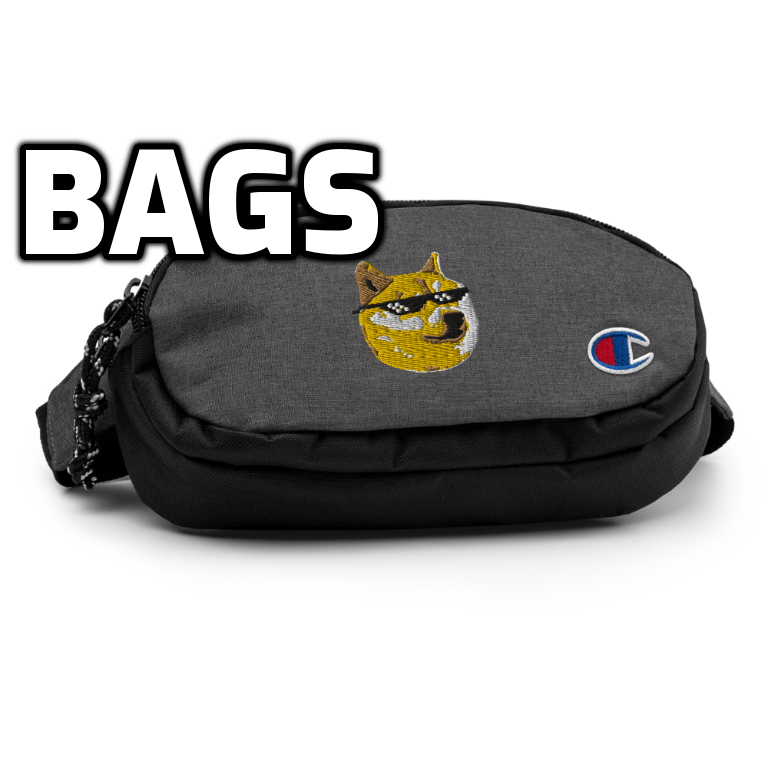
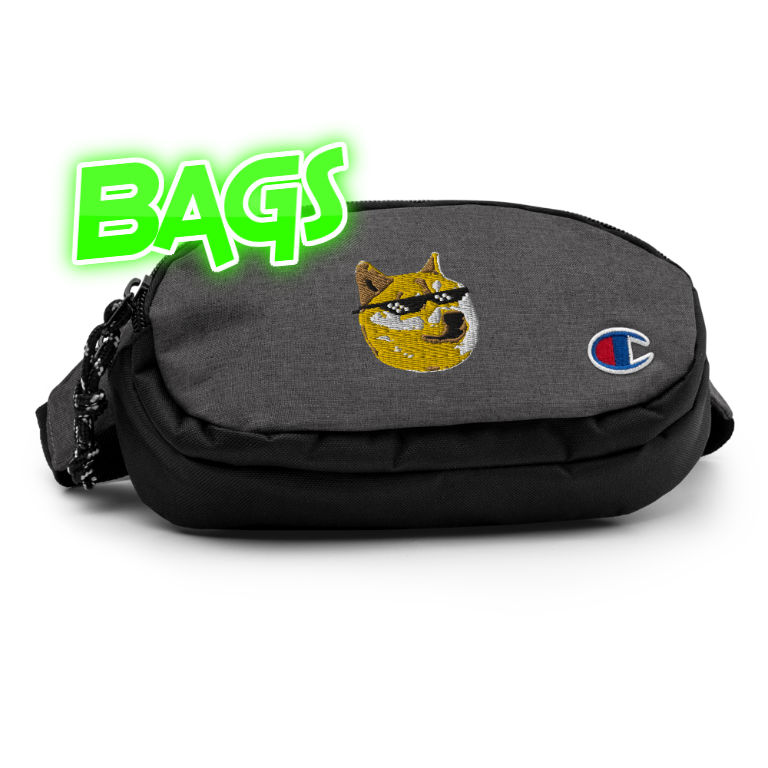
background styling and other minor styling edits

Changed region(s): [[0.0, 0.1562, 0.5312, 0.375]]

diff --git a/client/src/components/Home.js b/client/src/components/Home.js
@@ -9,9 +9,10 @@ import { Route, Switch } from "react-router-dom";
 import Checkout from './Checkout/Checkout';
 import Ticker from './Ticker/Ticker';
 import ImageCarousel from './Carousel/ImageCarousel';
-import { Grid, Container } from '@material-ui/core';
+import { Grid, Container, Typography } from '@material-ui/core';
 import Chat from './Chat/Chat';
 import BottomBanner from './Banner/BottomBanner';
+import MediaBanner from './Banner/MediaBanner';
 
 
 
@@ -66,18 +67,22 @@ const Home = () => {
       <Switch>
         <Route exact path="/">
           <ImageCarousel />
-          <Grid container className="mainMedia">
-            <Grid item xs={12} sm={6}>
-              <Chat />
+          <div className="mediaBackground">
+            <MediaBanner />
+            <Grid container justify="center" className="mainMedia">
+              <Grid item xs={12} sm={6} md={5}>
+                <Chat />
+              </Grid>
+              <Grid align="center" item xs={12} sm={6} md={5}>
+                <Ticker />
+                <BottomBanner />
+              </Grid>
             </Grid>
-            <Grid item xs={12} sm={6}>
-              <Ticker />
-              <BottomBanner />
-            </Grid>
-          </Grid>
 
+          </div>
 
           <Products products={products} onAddToCart={handleAddToCart} />
+
         </Route>
         <Route exact path="/cart">
           <Cart

diff --git a/client/src/components/Carousel/carousel.css b/client/src/components/Carousel/carousel.css
@@ -1,10 +1,16 @@
 .carouselRoot {
   display: flex;
   justify-content: center;
+  background: linear-gradient(
+    to bottom,
+    rgba(0,0,0, 0),
+    rgba(0,0,0, 50)
+  ),url('../../assets/galaxy-background.jpeg') no-repeat center center / cover;
 }
 
 .carouselContent {
   margin-top: 150px;
+  padding-top: 100px;
   width: 100%;
   background: transparent !important;
   display: flex;
@@ -21,15 +27,13 @@
   background: linear-gradient(to top, black, 88%, rgb(105, 105, 105)) !important;
   border-style: outset !important;
   border-width: 1px !important;
-  border-color: #00FF00 !important;
   border-radius: 8px !important;
   color: #00FF00 !important;
   padding: 8px 15px !important;
   text-align: center !important;
   font-size: 16px !important;
-  margin: 4px 2px !important;
+  margin-top: -40px !important;
   cursor: pointer !important;
   box-shadow: 0px 0px 6px 1px rgba(0,255,0,0.8) !important;
   min-width: 50px !important;
-  min-height: 50px !important;
 }

diff --git a/client/src/components/Products/Product/product.css b/client/src/components/Products/Product/product.css
@@ -27,7 +27,6 @@
 .cardRoot {
   max-width: 100%;
   border: rgb(82, 82, 82) solid 1px !important;
-  background-color: rgb(31, 31, 31) !important;
   background: linear-gradient(to top, rgb(31, 31, 31), 99%, rgb(83, 83, 83)) !important;
   height: 100%;
   border-radius: 1rem !important;
@@ -57,7 +56,6 @@
     background: linear-gradient(to top, black, 88%, rgb(105, 105, 105)) !important;
     border-style: outset !important;
     border-width: 1px !important;
-    border-color: #78ff78 !important;
     border-radius: 8px !important;
     color: #00FF00 !important;
     padding: 8px 15px !important;

diff --git a/client/src/components/Products/Products.jsx b/client/src/components/Products/Products.jsx
@@ -7,7 +7,7 @@ import './products.css';
 
 const Products = ({ products, onAddToCart }) => {
   return (
-    <main className="content">
+    <div className="content">
       <Grid container justify="center" spacing={4}>
         {products.map((product) => (
           <Grid item key={product.id} xs={12} sm={6} md={4} lg={3}>
@@ -15,7 +15,7 @@ const Products = ({ products, onAddToCart }) => {
           </Grid>
         ))}
       </Grid>
-    </main>
+    </div>
 
   )
 };

diff --git a/client/src/App.css b/client/src/App.css
@@ -4,7 +4,7 @@
 }
 
 .home {
-  background: linear-gradient(to top, black, 94%, rgb(105, 105, 105));
+  background: black;
   height: 100% ;
   width: 100%;
   overflow-x: hidden;
@@ -16,8 +16,18 @@
 .mainMedia {
   padding-top: 100px;
   align-items: flex-end;
+  
 
 
   
 }
 
+.mediaBackground {
+  background: linear-gradient(
+    to top,
+    rgba(0,0,0, 0), 95%,
+    rgba(0,0,0, 100)
+    
+  ),url('./assets/moon-background.jpeg') no-repeat fixed center ;
+
+}

diff --git a/client/src/components/Banner/MediaBanner.jsx b/client/src/components/Banner/MediaBanner.jsx
@@ -1,0 +1,13 @@
+import React from 'react';
+import mediaBanner from '../../assets/media.png';
+import './banner.css';
+
+const MediaBanner = () => {
+  return (
+    <div>
+      <img className="mediaBanner" src={mediaBanner} />
+    </div>
+  )
+}
+
+export default MediaBanner

diff --git a/client/src/components/Ticker/ticker.css b/client/src/components/Ticker/ticker.css
@@ -11,8 +11,7 @@
   border-radius: 3rem;
   height:100%;
   background: linear-gradient(to top, black, 97%, rgb(105, 105, 105));
-  margin-left: 15px;
-  margin-right: 15px;
+  margin: auto;
   margin-bottom: 30px;
 
 }

diff --git a/client/src/components/Banner/banner.css b/client/src/components/Banner/banner.css
@@ -2,4 +2,15 @@
   width: 100%;
   max-width: 500px;
   margin-bottom: 5px;
+  margin-top: 30px;
+}
+
+
+
+.mediaBanner {
+  display: block;
+  width: 100%;
+  max-width: 400px;
+  margin: 0px auto -50px auto;
+
 }

diff --git a/client/src/components/Products/products.css b/client/src/components/Products/products.css
@@ -1,13 +1,11 @@
 .content {
  flex-grow: 1;
- background-color: black;
  padding-top: 10px;
  padding-right: 10px;
  padding-left: 10px;
  max-width: 100%;
  overflow-y: hidden;
  padding-bottom: 30px;
-
 
  
 }

diff --git a/client/src/components/Chat/chat.css b/client/src/components/Chat/chat.css
@@ -6,9 +6,7 @@
   min-width: 300px;
   max-width: 450px;
   box-shadow: 0px 0px 15px 3px rgb(255, 255, 255);
-  margin: auto;
   margin-bottom: 50px;
-
 
 }
 
